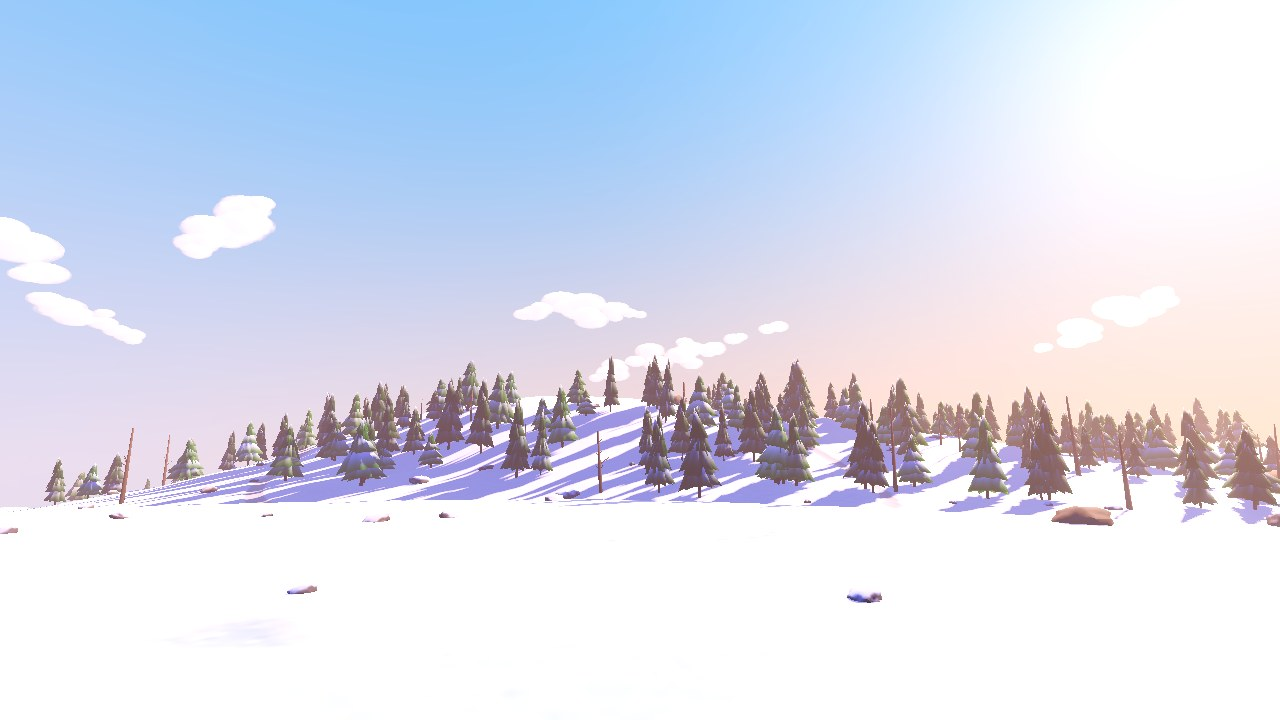
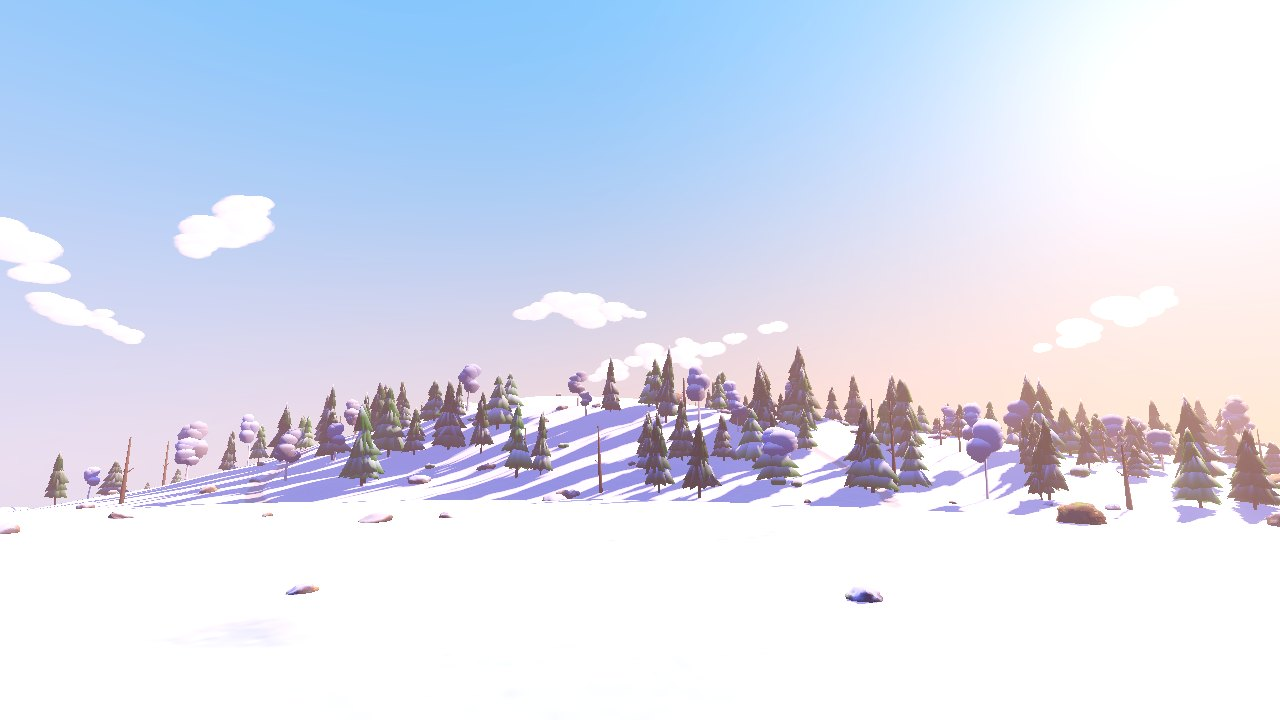
Keep river water off lakes and sea; river, valley, meadow and snowy forest previews
Claude-Session: https://claude.ai/code/session_0176mp3mLr8iUe6AmbkpfTf3

Changed region(s): [[0.0312, 0.4889, 1.0, 0.7333], [0.6562, 0.825, 0.6875, 0.8556], [0.2188, 0.7944, 0.25, 0.825]]

diff --git a/README.md b/README.md
@@ -29,6 +29,10 @@ one number (the seed) and you get a different planet.
 | ![Mountains by a lake](previews/mountain.jpg) | ![The whole planet](previews/orbit.jpg) |
 | **Snowy taiga** | **Frozen polar sea** |
 | ![Snowy forest](previews/snow.jpg) | ![Ice shelf near the pole](previews/ice.jpg) |
+| **A river in its valley** | **River valley from above** |
+| ![By the river](previews/river.jpg) | ![A river winding through its valley](previews/valley.jpg) |
+| **Meadow plants** | **Snowy forest** |
+| ![Clover, dandelions, lupines and berry bushes](previews/meadow.jpg) | ![Snowy pines, firs, birches and bushes](previews/snow_forest.jpg) |
 | **Polar cap from orbit** | |
 | ![The pole from orbit](previews/orbit_pole.jpg) | |
 
@@ -229,7 +233,7 @@ SHOTS=vista,ground godot --path godot -- --shots   # only some of the screenshot
 ## Good to know
 
 - Building the ground around the player at the start takes about 15 seconds on
-  a 4-core computer. Show a loading screen until the `loaded` signal fires.
+  a 4-core computer (longer on a slow machine with no graphics card). Show a loading screen until the `loaded` signal fires.
 - Trees and big rocks have collision. Grass, flowers, bushes and logs don't.
 - Water is the same height everywhere (sea level), including lakes. Anything
   below it counts as underwater, which is how swimming knows when to start.
